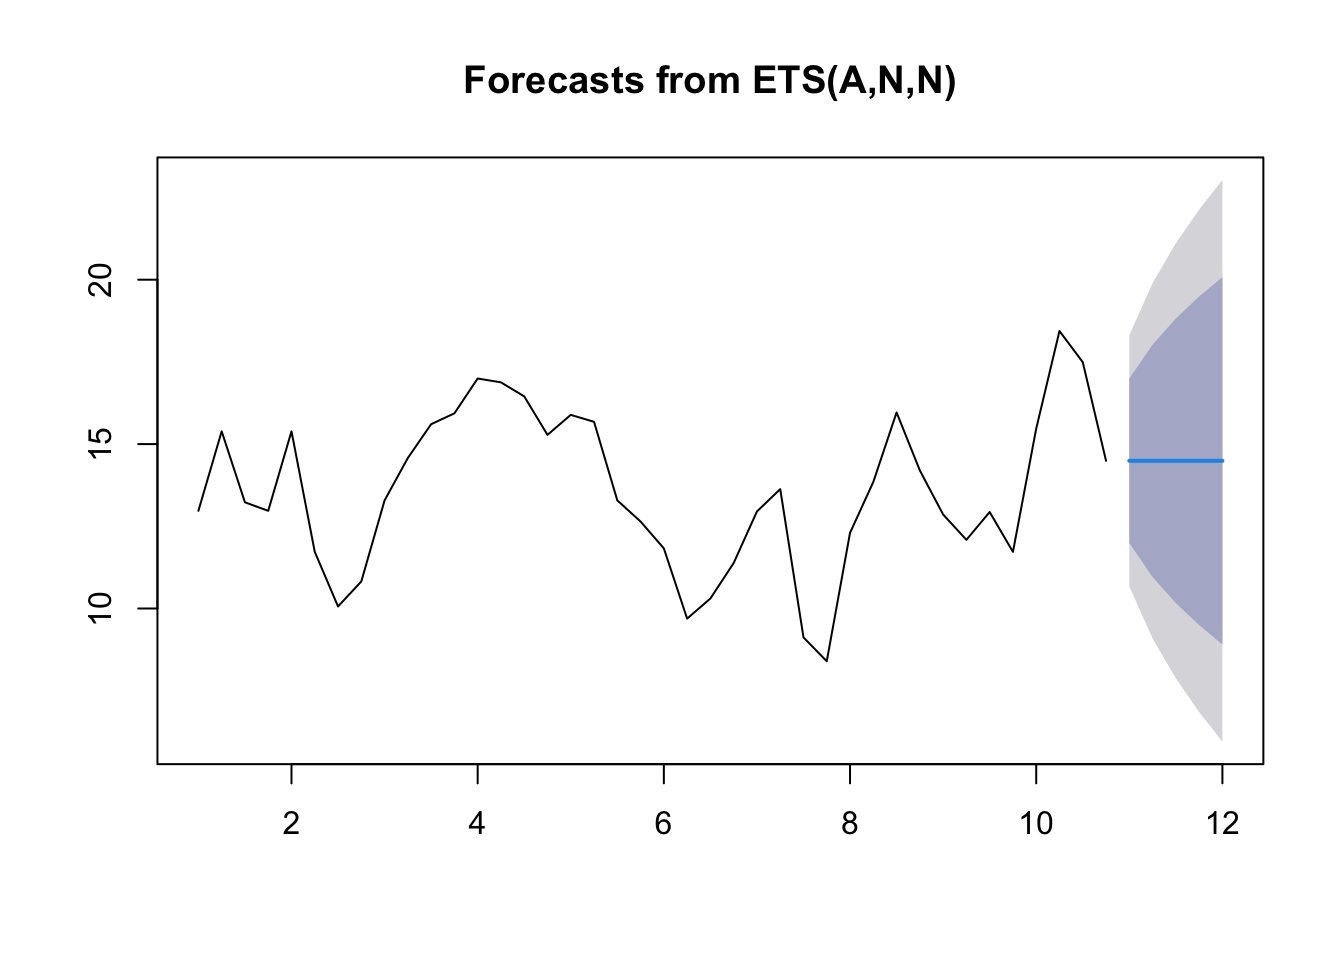
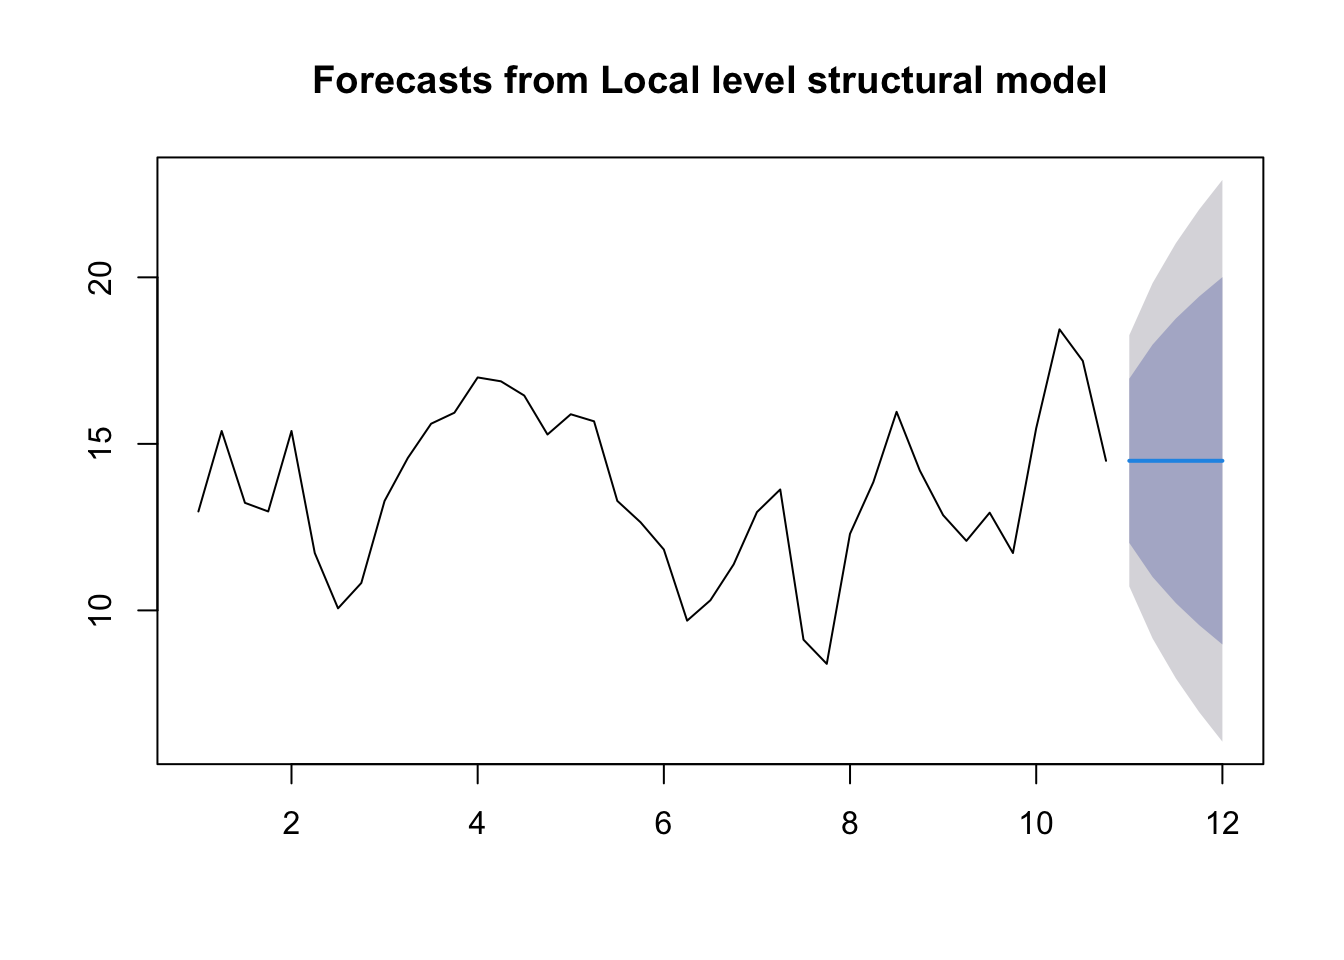
lecture 4

diff --git a/docs/covariates.html b/docs/covariates.html
@@ -192,14 +192,12 @@ code span.wa { color: #60a0b0; font-weight: bold; font-style: italic; } /* Warni
 <ul>
 <li class="chapter" data-level="6.1" data-path="covariates.html"><a href="covariates.html#linear-regression"><i class="fa fa-check"></i><b>6.1</b> Linear Regression</a></li>
 <li class="chapter" data-level="6.2" data-path="covariates.html"><a href="covariates.html#dynlm-linear-model"><i class="fa fa-check"></i><b>6.2</b> <code>dynlm</code> Linear Model</a></li>
-<li class="chapter" data-level="6.3" data-path="covariates.html"><a href="covariates.html#linear-regression-with-arima-errors"><i class="fa fa-check"></i><b>6.3</b> Linear Regression with ARIMA Errors</a></li>
+<li class="chapter" data-level="6.3" data-path="covariates.html"><a href="covariates.html#lm-with-arima-errors"><i class="fa fa-check"></i><b>6.3</b> <code>lm</code> with ARIMA Errors</a></li>
 <li class="chapter" data-level="6.4" data-path="covariates.html"><a href="covariates.html#state-space-model"><i class="fa fa-check"></i><b>6.4</b> State Space Model</a>
 <ul>
 <li class="chapter" data-level="6.4.1" data-path="covariates.html"><a href="covariates.html#framework"><i class="fa fa-check"></i><b>6.4.1</b> Framework</a></li>
-<li class="chapter" data-level="6.4.2" data-path="covariates.html"><a href="covariates.html#general-framework"><i class="fa fa-check"></i><b>6.4.2</b> General Framework</a></li>
-<li class="chapter" data-level="6.4.3" data-path="covariates.html"><a href="covariates.html#specific-problem"><i class="fa fa-check"></i><b>6.4.3</b> Specific Problem</a></li>
+<li class="chapter" data-level="6.4.2" data-path="covariates.html"><a href="covariates.html#specific-problem"><i class="fa fa-check"></i><b>6.4.2</b> Specific Problem</a></li>
 </ul></li>
-<li class="chapter" data-level="6.5" data-path="covariates.html"><a href="covariates.html#prophet"><i class="fa fa-check"></i><b>6.5</b> Prophet</a></li>
 </ul></li>
 </ul>
 
@@ -264,46 +262,112 @@ y_t = \beta_0 + \beta_1 x_t + e_t,
 <div class="sourceCode" id="cb48"><pre class="sourceCode r"><code class="sourceCode r"><span id="cb48-1"><a href="covariates.html#cb48-1" tabindex="-1"></a><span class="co"># option two - time series regression: LM with very useful time functions</span></span>
 <span id="cb48-2"><a href="covariates.html#cb48-2" tabindex="-1"></a>y <span class="ot">=</span> <span class="fu">ts</span>(insurance<span class="sc">$</span>Quotes, <span class="at">frequency =</span> <span class="dv">4</span>)</span>
 <span id="cb48-3"><a href="covariates.html#cb48-3" tabindex="-1"></a>x1 <span class="ot">=</span> <span class="fu">ts</span>(insurance<span class="sc">$</span>TVadverts, <span class="at">frequency =</span> <span class="dv">4</span>)</span>
-<span id="cb48-4"><a href="covariates.html#cb48-4" tabindex="-1"></a>md <span class="ot">=</span> <span class="fu">dynlm</span>(y <span class="sc">~</span> x1 )</span></code></pre></div>
+<span id="cb48-4"><a href="covariates.html#cb48-4" tabindex="-1"></a>md <span class="ot">=</span> <span class="fu">dynlm</span>(y <span class="sc">~</span> x1 )</span>
+<span id="cb48-5"><a href="covariates.html#cb48-5" tabindex="-1"></a><span class="fu">summary</span>(md) <span class="sc">%&gt;%</span> <span class="fu">tidy</span>() <span class="sc">%&gt;%</span> <span class="fu">kable</span>()</span></code></pre></div>
+<table>
+<thead>
+<tr class="header">
+<th align="left">term</th>
+<th align="right">estimate</th>
+<th align="right">std.error</th>
+<th align="right">statistic</th>
+<th align="right">p.value</th>
+</tr>
+</thead>
+<tbody>
+<tr class="odd">
+<td align="left">(Intercept)</td>
+<td align="right">-0.2401883</td>
+<td align="right">0.9008432</td>
+<td align="right">-0.2666261</td>
+<td align="right">0.7911986</td>
+</tr>
+<tr class="even">
+<td align="left">x1</td>
+<td align="right">1.6934377</td>
+<td align="right">0.1088208</td>
+<td align="right">15.5617088</td>
+<td align="right">0.0000000</td>
+</tr>
+</tbody>
+</table>
+<p>The results from this model are identcal to the simple linear regression. The utility of this package comes from the ease with which you can add lagged terms, trends and seasonal factors:</p>
+<div class="sourceCode" id="cb49"><pre class="sourceCode r"><code class="sourceCode r"><span id="cb49-1"><a href="covariates.html#cb49-1" tabindex="-1"></a>md2 <span class="ot">=</span> <span class="fu">dynlm</span>(y <span class="sc">~</span> x1 <span class="sc">+</span> <span class="fu">L</span>(x1,<span class="dv">1</span>) <span class="sc">+</span> <span class="fu">trend</span>(y) <span class="sc">+</span> <span class="fu">season</span>(y))</span></code></pre></div>
 </div>
-<div id="linear-regression-with-arima-errors" class="section level2 hasAnchor" number="6.3">
-<h2><span class="header-section-number">6.3</span> Linear Regression with ARIMA Errors<a href="covariates.html#linear-regression-with-arima-errors" class="anchor-section" aria-label="Anchor link to header"></a></h2>
+<div id="lm-with-arima-errors" class="section level2 hasAnchor" number="6.3">
+<h2><span class="header-section-number">6.3</span> <code>lm</code> with ARIMA Errors<a href="covariates.html#lm-with-arima-errors" class="anchor-section" aria-label="Anchor link to header"></a></h2>
+<p>It is possible to adjust estimated regression coefficients and standard errors when the errors have an ARIMA structure. The purpose is to adjust “ordinary” regression estimates for the fact that the residuals have an ARIMA structure.</p>
+<p>In this case, the model is written as,</p>
+<p><span class="math display">\[\begin{align}
+y_t &amp;= \beta_0 + \beta_1 x_t + \eta_t \\
+\eta_t &amp;= \phi_1 \eta_{t-1} + \dots + \phi_p \eta_{t-p} + w_t + \theta_1 w_{t-1} + \dots + \theta_q w_{t-q},
+\end{align}\]</span></p>
+<p>where <span class="math inline">\(w_t \sim N(0, \sigma^2)\)</span> are white noise. This model can be fit within <code>auto.arima</code> or <code>Arima</code>.</p>
+<div class="sourceCode" id="cb50"><pre class="sourceCode r"><code class="sourceCode r"><span id="cb50-1"><a href="covariates.html#cb50-1" tabindex="-1"></a><span class="co"># option three - time series with ARIMA errors</span></span>
+<span id="cb50-2"><a href="covariates.html#cb50-2" tabindex="-1"></a>linmod2 <span class="ot">=</span> <span class="fu">auto.arima</span>(insurance<span class="sc">$</span>Quotes, <span class="at">xreg =</span> <span class="fu">as.matrix</span>(insurance<span class="sc">$</span>TVadverts))</span>
+<span id="cb50-3"><a href="covariates.html#cb50-3" tabindex="-1"></a><span class="fu">summary</span>(linmod2)</span></code></pre></div>
+<pre><code>## Series: insurance$Quotes 
+## Regression with ARIMA(0,1,0) errors 
+## 
+## Coefficients:
+##         xreg
+##       1.3485
+## s.e.  0.0666
+## 
+## sigma^2 = 0.3301:  log likelihood = -33.22
+## AIC=70.44   AICc=70.77   BIC=73.77
+## 
+## Training set error measures:
+##                       ME      RMSE       MAE         MPE     MAPE      MASE
+## Training set -0.01299736 0.5599955 0.4354811 -0.09980506 3.271638 0.2767685
+##                   ACF1
+## Training set 0.1664547</code></pre>
+<div class="sourceCode" id="cb52"><pre class="sourceCode r"><code class="sourceCode r"><span id="cb52-1"><a href="covariates.html#cb52-1" tabindex="-1"></a><span class="fu">checkresiduals</span>(m0)</span></code></pre></div>
 <p><img src="series_files/figure-html/unnamed-chunk-58-1.png" width="672" /></p>
 <pre><code>## 
 ##  Ljung-Box test
 ## 
-## data:  Residuals from Regression with ARIMA(0,1,0) errors
-## Q* = 9.1602, df = 8, p-value = 0.329
+## data:  Residuals from ARIMA(0,1,0)
+## Q* = 5.0746, df = 10, p-value = 0.8861
 ## 
-## Model df: 0.   Total lags used: 8</code></pre>
+## Model df: 0.   Total lags used: 10</code></pre>
 </div>
 <div id="state-space-model" class="section level2 hasAnchor" number="6.4">
 <h2><span class="header-section-number">6.4</span> State Space Model<a href="covariates.html#state-space-model" class="anchor-section" aria-label="Anchor link to header"></a></h2>
 <div id="framework" class="section level3 hasAnchor" number="6.4.1">
 <h3><span class="header-section-number">6.4.1</span> Framework<a href="covariates.html#framework" class="anchor-section" aria-label="Anchor link to header"></a></h3>
+<p>An alternate framework for time series modeling is the state space model. These models are based on a decomposition of the series into a number of components, each of which may be accompanied by error terms (and thus, uncertainty). The simplest model is the <em>local level model</em>. In this model,</p>
+<p><span class="math display">\[\begin{align}
+y_t &amp;= \mu_t + \epsilon_t \\
+\mu_t &amp;= \mu_{t-1} + \tau_t.
+\end{align}\]</span></p>
+<p>The idea of this model is that the observations <span class="math inline">\(y\)</span> consist of noisy measurements (observation error) of an underlying random walk.</p>
+<p>What is the estimate for <span class="math inline">\(\mu_t\)</span> when <span class="math inline">\(\tau_t = 0\)</span>? How about when <span class="math inline">\(\epsilon_t = 0\)</span>? How does this relate to simple exponential smoothing?</p>
+<div class="sourceCode" id="cb54"><pre class="sourceCode r"><code class="sourceCode r"><span id="cb54-1"><a href="covariates.html#cb54-1" tabindex="-1"></a>ss1 <span class="ot">=</span> <span class="fu">StructTS</span>(y, <span class="at">type =</span> <span class="st">&quot;level&quot;</span>)</span>
+<span id="cb54-2"><a href="covariates.html#cb54-2" tabindex="-1"></a><span class="fu">plot</span>(<span class="fu">forecast</span>(ss1, <span class="at">h =</span> <span class="dv">5</span>))</span></code></pre></div>
 <p><img src="series_files/figure-html/unnamed-chunk-59-1.png" width="672" /></p>
 </div>
-<div id="general-framework" class="section level3 hasAnchor" number="6.4.2">
-<h3><span class="header-section-number">6.4.2</span> General Framework<a href="covariates.html#general-framework" class="anchor-section" aria-label="Anchor link to header"></a></h3>
-</div>
-<div id="specific-problem" class="section level3 hasAnchor" number="6.4.3">
-<h3><span class="header-section-number">6.4.3</span> Specific Problem<a href="covariates.html#specific-problem" class="anchor-section" aria-label="Anchor link to header"></a></h3>
-<pre><code>## =-=-=-=-= Iteration 0 Tue Feb 20 07:52:03 2024 =-=-=-=-=
-## =-=-=-=-= Iteration 100 Tue Feb 20 07:52:03 2024 =-=-=-=-=
-## =-=-=-=-= Iteration 200 Tue Feb 20 07:52:03 2024 =-=-=-=-=
-## =-=-=-=-= Iteration 300 Tue Feb 20 07:52:03 2024 =-=-=-=-=
-## =-=-=-=-= Iteration 400 Tue Feb 20 07:52:03 2024 =-=-=-=-=
-## =-=-=-=-= Iteration 500 Tue Feb 20 07:52:03 2024 =-=-=-=-=
-## =-=-=-=-= Iteration 600 Tue Feb 20 07:52:03 2024 =-=-=-=-=
-## =-=-=-=-= Iteration 700 Tue Feb 20 07:52:03 2024 =-=-=-=-=
-## =-=-=-=-= Iteration 800 Tue Feb 20 07:52:03 2024 =-=-=-=-=
-## =-=-=-=-= Iteration 900 Tue Feb 20 07:52:03 2024 =-=-=-=-=</code></pre>
+<div id="specific-problem" class="section level3 hasAnchor" number="6.4.2">
+<h3><span class="header-section-number">6.4.2</span> Specific Problem<a href="covariates.html#specific-problem" class="anchor-section" aria-label="Anchor link to header"></a></h3>
+<p>For our problem, we will introduce the covariate into the measurement equation. Our model is,</p>
+<p><span class="math display">\[\begin{align}
+y_t &amp;= \mu_t + \beta x_t + \epsilon_t \\
+\mu_t = \mu_{t-1} + \eta_t.
+\end{align}\]</span></p>
+<p>We will use the package <code>bsts</code> to fit this model. The first thing to do when specifying a <code>bsts</code> package is the specify the contents of the latent state vector <span class="math inline">\(\mu_t\)</span></p>
+<pre><code>## =-=-=-=-= Iteration 0 Tue Feb 20 18:52:00 2024 =-=-=-=-=
+## =-=-=-=-= Iteration 100 Tue Feb 20 18:52:00 2024 =-=-=-=-=
+## =-=-=-=-= Iteration 200 Tue Feb 20 18:52:00 2024 =-=-=-=-=
+## =-=-=-=-= Iteration 300 Tue Feb 20 18:52:00 2024 =-=-=-=-=
+## =-=-=-=-= Iteration 400 Tue Feb 20 18:52:00 2024 =-=-=-=-=
+## =-=-=-=-= Iteration 500 Tue Feb 20 18:52:00 2024 =-=-=-=-=
+## =-=-=-=-= Iteration 600 Tue Feb 20 18:52:00 2024 =-=-=-=-=
+## =-=-=-=-= Iteration 700 Tue Feb 20 18:52:00 2024 =-=-=-=-=
+## =-=-=-=-= Iteration 800 Tue Feb 20 18:52:00 2024 =-=-=-=-=
+## =-=-=-=-= Iteration 900 Tue Feb 20 18:52:00 2024 =-=-=-=-=</code></pre>
 <p><img src="series_files/figure-html/unnamed-chunk-60-1.png" width="672" /><img src="series_files/figure-html/unnamed-chunk-60-2.png" width="672" /></p>
-</div>
-</div>
-<div id="prophet" class="section level2 hasAnchor" number="6.5">
-<h2><span class="header-section-number">6.5</span> Prophet<a href="covariates.html#prophet" class="anchor-section" aria-label="Anchor link to header"></a></h2>
 
+</div>
 </div>
 </div>
             </section>
